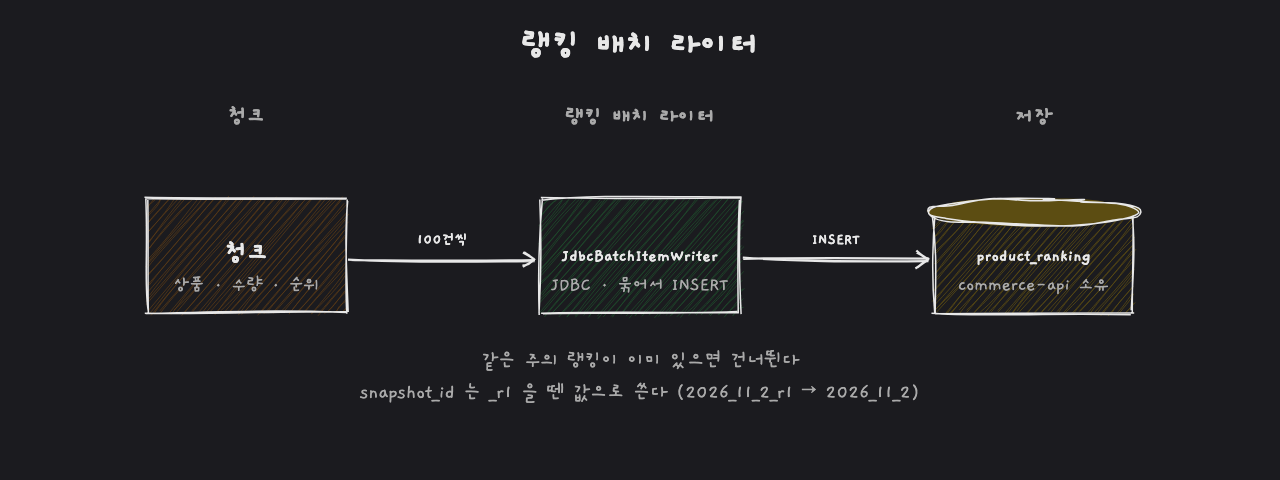
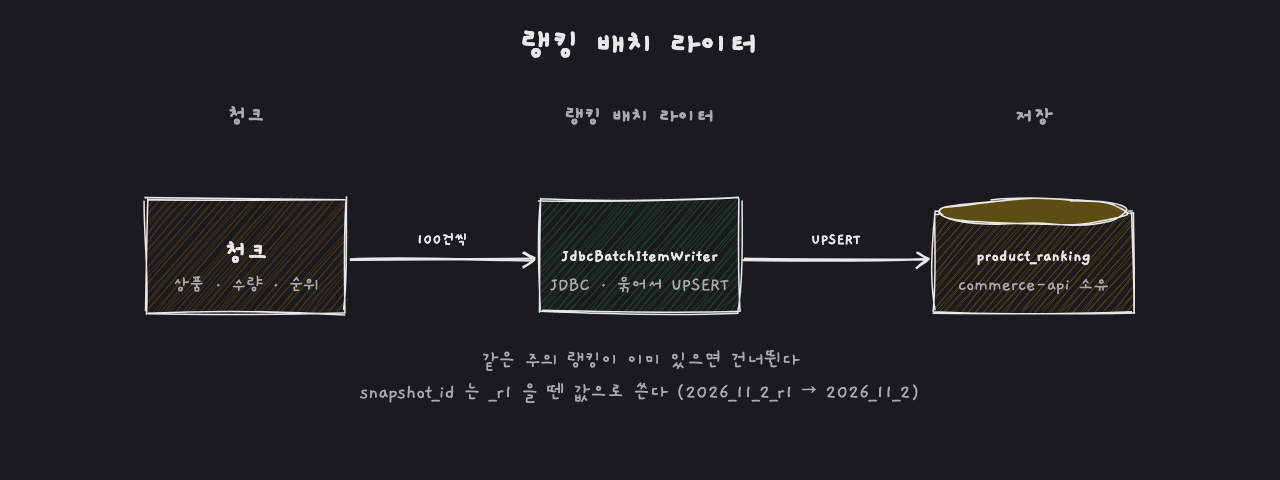
랭킹 라이터를 upsert 로 바꿔 같은 주의 같은 상품은 점수와 순위만 갱신한다

Changed region(s): [[0.0938, 0.4062, 0.9062, 0.6562]]

diff --git a/apps/commerce-batch/src/test/kotlin/com/loopers/job/ranking/WeeklyRankingWriterTest.kt b/apps/commerce-batch/src/test/kotlin/com/loopers/job/ranking/WeeklyRankingWriterTest.kt
@@ -1,0 +1,101 @@
+package com.loopers.job.ranking
+
+import com.loopers.batch.job.ranking.step.ProductSales
+import com.loopers.batch.job.ranking.step.WeeklyRankingWriterConfig
+import org.assertj.core.api.Assertions.assertThat
+import org.junit.jupiter.api.AfterEach
+import org.junit.jupiter.api.BeforeEach
+import org.junit.jupiter.api.DisplayName
+import org.junit.jupiter.api.Test
+import org.springframework.batch.item.Chunk
+import org.springframework.batch.item.database.JdbcBatchItemWriter
+import org.springframework.beans.factory.annotation.Autowired
+import org.springframework.beans.factory.annotation.Qualifier
+import org.springframework.boot.test.context.SpringBootTest
+import org.springframework.jdbc.core.JdbcTemplate
+import java.time.LocalDate
+import java.time.LocalDateTime
+
+@SpringBootTest(properties = ["spring.batch.job.enabled=false"])
+class WeeklyRankingWriterTest @Autowired constructor(
+    @param:Qualifier(WeeklyRankingWriterConfig.WRITER_NAME) private val writer: JdbcBatchItemWriter<ProductSales>,
+    private val jdbcTemplate: JdbcTemplate,
+) {
+    @BeforeEach
+    fun setUp() {
+        jdbcTemplate.execute(
+            """
+            CREATE TABLE IF NOT EXISTS product_ranking (
+                id bigint NOT NULL AUTO_INCREMENT,
+                created_at datetime(6) NOT NULL,
+                deleted_at datetime(6) DEFAULT NULL,
+                updated_at datetime(6) NOT NULL,
+                snapshot_id varchar(30) NOT NULL,
+                period_start date NOT NULL,
+                product_id bigint NOT NULL,
+                score bigint NOT NULL,
+                ranking int NOT NULL,
+                PRIMARY KEY (id),
+                UNIQUE KEY uk_product_ranking_snapshot_product (snapshot_id, product_id)
+            )
+            """.trimIndent(),
+        )
+    }
+
+    @AfterEach
+    fun tearDown() {
+        jdbcTemplate.execute("TRUNCATE TABLE product_ranking")
+    }
+
+    @DisplayName("같은 주에 상품이 없으면, 새 행으로 넣는다.")
+    @Test
+    fun insertsRow_whenProductIsNotRanked() {
+        writer.write(Chunk(sales(productId = 1L, salesQuantity = 9L, ranking = 1)))
+
+        assertThat(rows()).containsExactly(Row(productId = 1L, score = 9L, ranking = 1))
+    }
+
+    @DisplayName("같은 주에 상품이 이미 있으면, 점수와 순위를 바꾸고 행을 늘리지 않는다.")
+    @Test
+    fun updatesScoreAndRanking_whenProductIsAlreadyRanked() {
+        val createdAt = LocalDateTime.of(2026, 11, 16, 1, 30)
+        jdbcTemplate.update(
+            """
+            INSERT INTO product_ranking (snapshot_id, period_start, product_id, score, ranking, created_at, updated_at)
+            VALUES ('2026_11_2', '2026-11-09', 1, 2, 3, ?, ?)
+            """.trimIndent(),
+            createdAt,
+            createdAt,
+        )
+
+        writer.write(Chunk(sales(productId = 1L, salesQuantity = 5L, ranking = 1)))
+
+        assertThat(rows()).containsExactly(Row(productId = 1L, score = 5L, ranking = 1))
+        assertThat(
+            jdbcTemplate.queryForObject("SELECT created_at FROM product_ranking", LocalDateTime::class.java),
+        ).isEqualTo(createdAt)
+        assertThat(
+            jdbcTemplate.queryForObject("SELECT updated_at FROM product_ranking", LocalDateTime::class.java),
+        ).isAfter(createdAt)
+    }
+
+    private fun sales(productId: Long, salesQuantity: Long, ranking: Int) =
+        ProductSales(
+            snapshotId = "2026_11_2",
+            periodStart = LocalDate.parse("2026-11-09"),
+            productId = productId,
+            salesQuantity = salesQuantity,
+            ranking = ranking,
+        )
+
+    private fun rows(): List<Row> =
+        jdbcTemplate.query("SELECT product_id, score, ranking FROM product_ranking ORDER BY product_id") { rs, _ ->
+            Row(productId = rs.getLong("product_id"), score = rs.getLong("score"), ranking = rs.getInt("ranking"))
+        }
+
+    private data class Row(
+        val productId: Long,
+        val score: Long,
+        val ranking: Int,
+    )
+}

diff --git a/apps/commerce-batch/src/main/kotlin/com/loopers/batch/job/ranking/step/WeeklyRankingWriterConfig.kt b/apps/commerce-batch/src/main/kotlin/com/loopers/batch/job/ranking/step/WeeklyRankingWriterConfig.kt
@@ -26,6 +26,11 @@ class WeeklyRankingWriterConfig(
                 (snapshot_id, period_start, product_id, score, ranking, created_at, updated_at)
             VALUES
                 (:snapshotId, :periodStart, :productId, :salesQuantity, :ranking, UTC_TIMESTAMP(6), UTC_TIMESTAMP(6))
+            AS new
+            ON DUPLICATE KEY UPDATE
+                score = new.score,
+                ranking = new.ranking,
+                updated_at = new.updated_at
         """.trimIndent()
     }
 }

diff --git a/docs/week9/ranking-batch.md b/docs/week9/ranking-batch.md
@@ -95,6 +95,7 @@ ORDER BY sales_quantity DESC, product_id;
 - 랭킹 스텝이 실패한 뒤 재시작할 때는 이미 쓴 청크가 있어도 건너뛰지 않고 이어서 쓴다.
 - `snapshot_id` 는 리더가 읽은 스냅샷 식별자에서 리비전(`_r1`)을 뗀 값으로 쓴다 (`2026_11_2_r1` → `2026_11_2`).
 - `created_at`, `updated_at` 은 UTC 로 넣는다. 스냅샷과 같은 기준으로 통일한다.
+- 같은 주에 같은 상품 행이 이미 있으면 upsert 한다. `(snapshot_id, product_id)` 가 겹치면 점수·순위·`updated_at` 만 바꾸고 `created_at` 은 그대로 둔다.
 
 ![랭킹 배치 라이터](images/ranking-batch-writer.png)
 
@@ -102,5 +103,10 @@ ORDER BY sales_quantity DESC, product_id;
 INSERT INTO product_ranking
     (snapshot_id, period_start, product_id, score, ranking, created_at, updated_at)
 VALUES
-    ('2026_11_2', '2026-11-09', 20, 9, 1, UTC_TIMESTAMP(6), UTC_TIMESTAMP(6));
+    ('2026_11_2', '2026-11-09', 20, 9, 1, UTC_TIMESTAMP(6), UTC_TIMESTAMP(6))
+AS new
+ON DUPLICATE KEY UPDATE
+    score = new.score,
+    ranking = new.ranking,
+    updated_at = new.updated_at;
 ```
